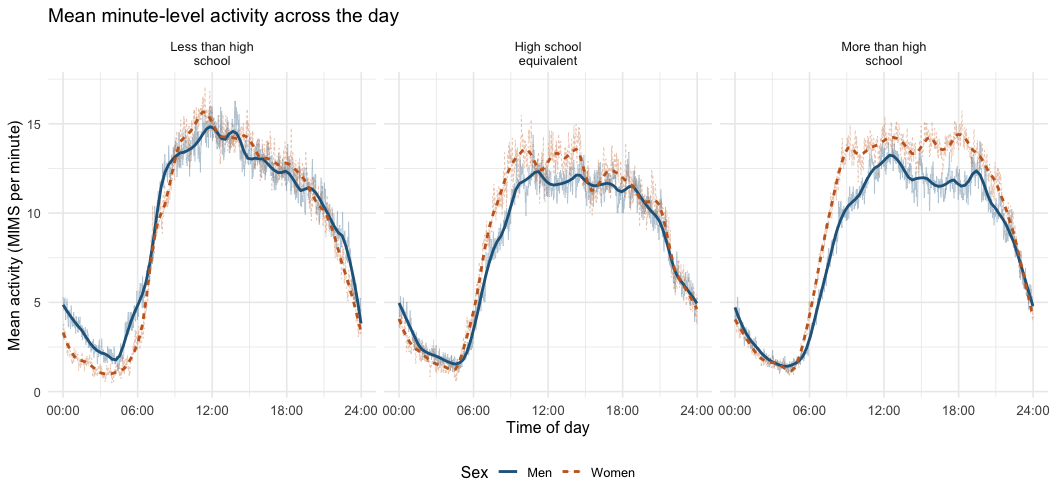
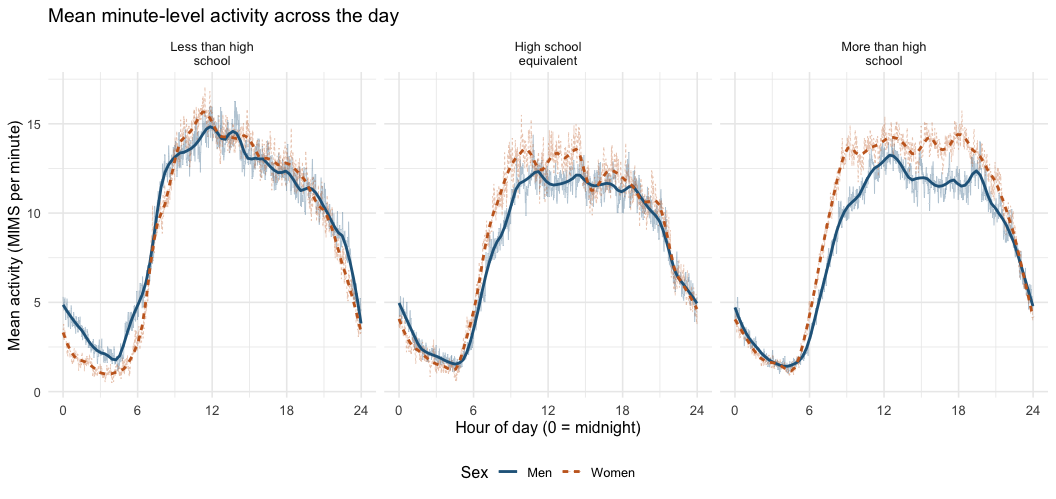
Clarify activity interpretation and verify a clean reproducible report

diff --git a/p8105_hw3_hw3206.md b/p8105_hw3_hw3206.md
@@ -405,11 +405,11 @@ activity_time |>
   scale_x_continuous(
     limits = c(0, 24),
     breaks = c(0, 6, 12, 18, 24),
-    labels = c("00:00", "06:00", "12:00", "18:00", "24:00")
+    labels = c("0", "6", "12", "18", "24")
   ) +
   labs(
     title = "Mean minute-level activity across the day",
-    x = "Time of day", y = "Mean activity (MIMS per minute)",
+    x = "Hour of day (0 = midnight)", y = "Mean activity (MIMS per minute)",
     color = "Sex", linetype = "Sex"
   ) +
   theme(legend.position = "bottom", axis.text.x = element_text(size = 10))
@@ -420,13 +420,14 @@ activity_time |>
 All groups show low activity overnight, an increase in the morning,
 sustained daytime activity, and a decline in the evening. The largest
 sex separation appears in the more-than-high-school group, where women’s
-daytime mean activity is generally higher. The high-school-equivalent
-group has more overlap, and differences in the less-than-high-school
-group change over the day rather than showing one sex consistently above
-the other. These are group averages, so they hide individual schedules.
-They also reflect the age mix shown above. Without survey weights or
-adjustment, I would describe these as patterns in the supplied sample
-rather than population estimates or causal effects of education.
+daytime mean activity is generally higher. Women also have higher
+daytime means in the high-school-equivalent group, though the curves
+overlap more. Differences in the less-than-high-school group change over
+the day rather than showing one sex consistently above the other. These
+are group averages, so they hide individual schedules. They also reflect
+the age mix shown above. Without survey weights or adjustment, I would
+describe these as patterns in the supplied sample rather than population
+estimates or causal effects of education.
 
 ## Problem 3: Citi Bike
 

diff --git a/README.md b/README.md
@@ -2,4 +2,18 @@
 
 Harrison Wei (hw3206), Fall 2026.
 
-The analysis will be in `p8105_hw3_hw3206.Rmd`, rendered as a GitHub document. Open `p8105_hw3_hw3206.Rproj` and knit the R Markdown file. Local input files belong in `data/` and are accessed using relative paths. The NOAA data are loaded from `p8105.datasets`, as required by the assignment.
+Read the [rendered homework](p8105_hw3_hw3206.md), or inspect the [R Markdown source](p8105_hw3_hw3206.Rmd).
+
+The report includes New York NOAA weather exploration, NHANES activity comparisons, and Citi Bike ride summaries. Each section contains the data preparation, requested tables and figures, and interpretation.
+
+To reproduce the report, open `p8105_hw3_hw3206.Rproj` in RStudio and knit `p8105_hw3_hw3206.Rmd`. Alternatively, run this from the project directory:
+
+```r
+rmarkdown::render("p8105_hw3_hw3206.Rmd")
+```
+
+The output format is `github_document`. The analysis uses `tidyverse`, `p8105.datasets`, and `patchwork`; `knitr` and `rmarkdown` are needed to render it. No packages are installed by the report. Input files are included in `data/` and accessed with relative paths; their sources and coding notes are listed in [data/README.md](data/README.md). As required, `ny_noaa` is loaded from the course package rather than stored in this repository.
+
+The supplied Citi Bike files are 1% samples of rides shorter than four hours. Reported ride counts refer to the samples, and the comparisons are descriptive.
+
+[Assignment instructions](https://p8105.com/homework_3.html)
